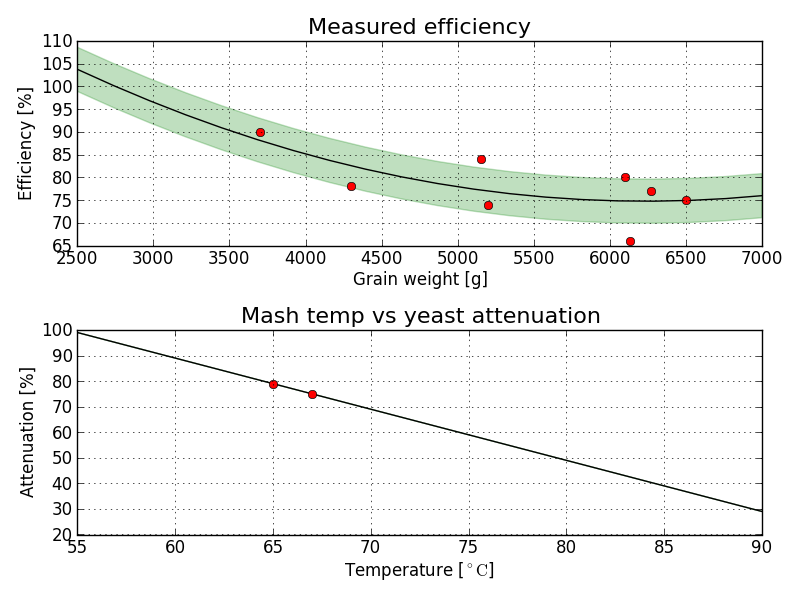
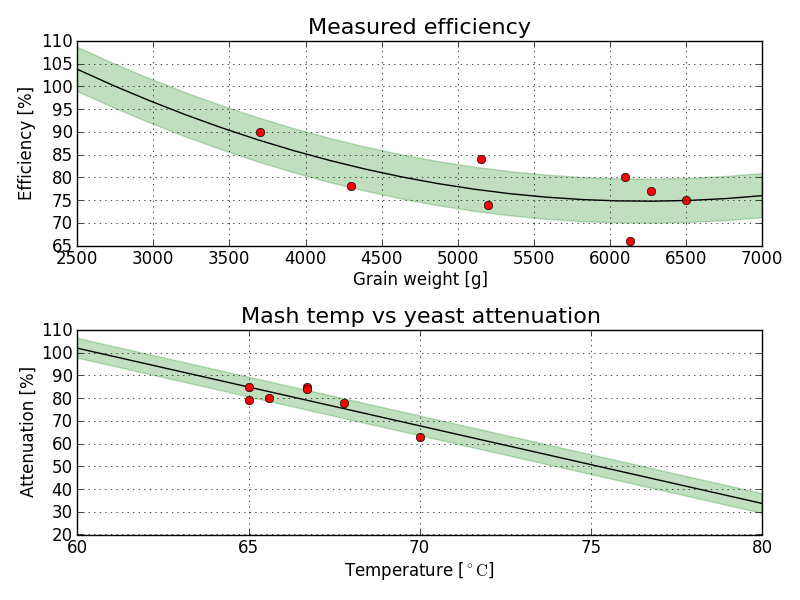
Added dummy data from woodland brewing

diff --git a/plot_all.py b/plot_all.py
@@ -23,7 +23,7 @@ ay =  attdata["Attenuation_"]
 
 #fit 2nd order polynomial
 aparams = np.polyfit(ax, ay, 1)
-axp = np.linspace(90, 55, 2)
+axp = np.linspace(80, 60, 2)
 ayp = np.polyval(aparams, axp)
 
 #error band
@@ -46,7 +46,7 @@ pl.title("Mash temp vs yeast attenuation", fontsize=16)
 pl.plot(axp, ayp, 'k')
 pl.fill_between(axp, ayp - asig, ayp + asig, color='green', alpha=0.25)
 pl.plot(attdata["Mash_temperature_C"], attdata["Attenuation_"], "ro")
-pl.xlim(55,90)
+pl.xlim(60,80)
 pl.xlabel(r"Temperature [$^{\circ}\mathrm{C}$]")
 pl.ylabel("Attenuation [%]")
 pl.grid()
